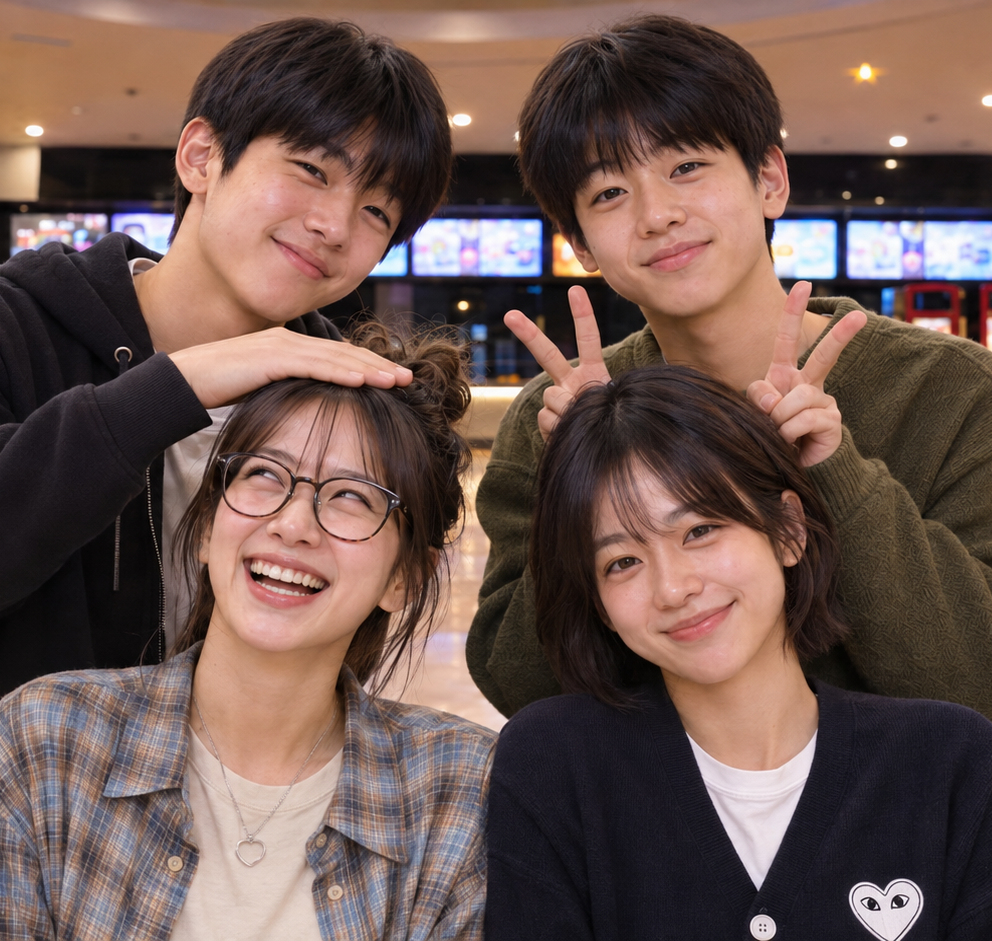
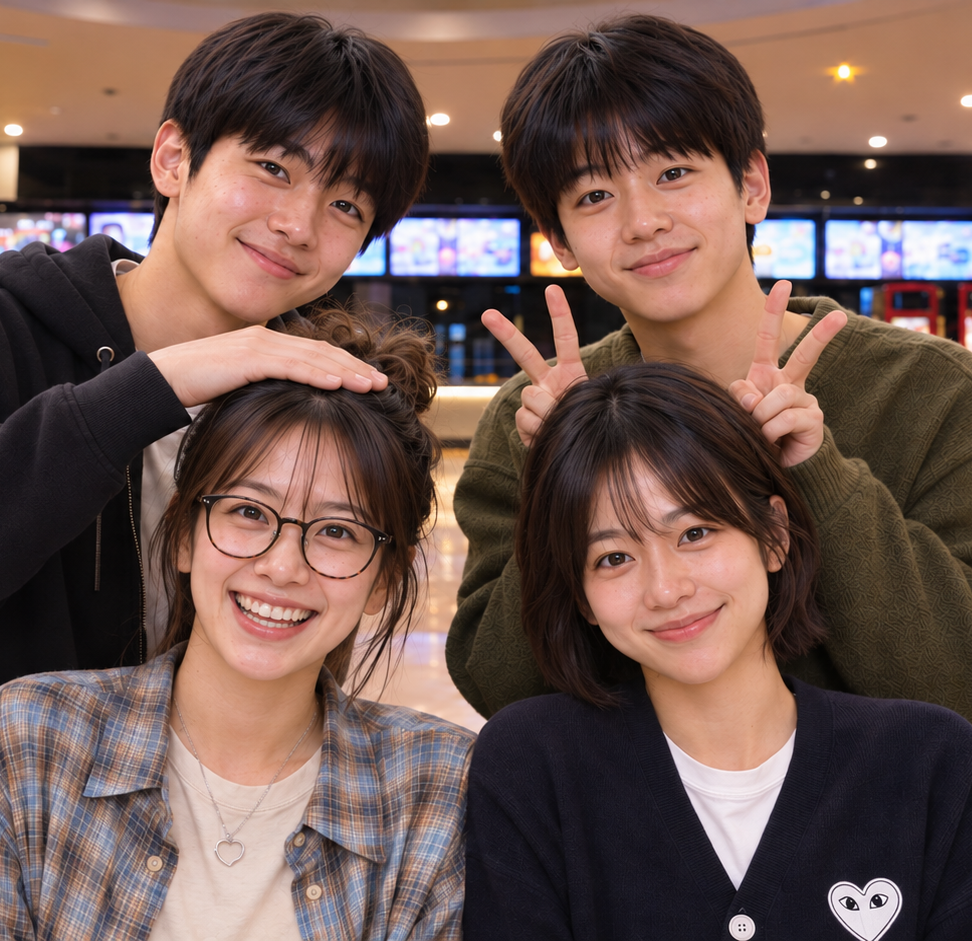
fix(샘플): 단체 샘플 사진을 «찰칵 포즈» 스틸로 — 웹 · 설치판 8종 (승인 Bumm 11/8)
넷이 카메라를 보는 새 스틸을 desktop-crop-probe가 브라우저로 자른 그림(972×941)을
무손실 WebP로 저장했다. 흐린 연장 0/8.

diff --git a/.claude/rules/app.md b/.claude/rules/app.md
@@ -349,7 +349,7 @@
   24fps 193프레임(8.04초), 로비 소리 · J컷 0.3 · 찰칵 7.45 · 멈춤 7.6, 숫자 4.8 · 5.6 · 6.4. 재료 · 목록은 `.cache/camera-video-20261108-group-stand/`.
   진짜 영상은 Bumm님이 만든다 — 명세는 저장소 밖 `ps-group-two-rows-1108/영상-명세-단체-모두서기.md`, 받으면 같은 순서(뒤처리 → 굽기 → 목록 → 탐침)로 바꾼다.
   🟠 단체 화면 문구: 칸 아래 안내와 안내 1번 제목은 «모두 잘 보이게 서주세요»(Bumm님 글자 그대로), 예시 이름표 «이렇게, 모두의 얼굴이 보이게». «앞줄은 앉고 뒷줄은 서서»는 화면 · 설명서 어디에도 쓰지 않는다. 혼자는 그대로다.
-- 🟠 **«샘플 포스터 보기»의 사진은 웹 · 설치판이 같다**(2026-11-08 Bumm님, 팀장 전달): 혼자는 2단계 예시 영상 끝 장면의 여학생(`public/studio/camera-v1/solo-end.webp` — 로비 · 청남방 · 브이), 단체는 새 단체 포즈 그림(단체 예시 영상 끝 장면과 같은 것).
+- 🟠 **«샘플 포스터 보기»의 사진은 웹 · 설치판이 같다**(2026-11-08 Bumm님, 팀장 전달): 혼자는 2단계 예시 영상 끝 장면의 여학생(`public/studio/camera-v1/solo-end.webp` — 로비 · 청남방 · 브이), 단체는 «찰칵 포즈» 스틸 12(11/8 밤 Bumm님 — 넷이 카메라를 봄. 지금 예시 영상 임시판의 끝 장면 08과는 다르고, 뒤 절반을 새로 만드는 예시 영상이 이 그림으로 끝난다).
   🟠 **샘플 사진은 그 모드의 예시 영상 끝 장면 사람이다** — 11/8 저녁에 혼자를 영상이 나오기 전 정지 그림(`camera-student.webp` — 미술실 · 남색 카디건)으로 했다가 «예시 영상 여학생과 다르다»(팀장)로 바꿨다.
   `camera-student.webp`는 예시 영상을 못 틀 때만 보이는 옛 정지 그림이다.
   설치판이 찍은 사진에 하는 «사람 둘레 세로 2:3 자르기»를 미리 한 그림(`src/studio/sample-solo.webp` · `sample-group.webp`, 무손실 WebP)을 `PosterStudio.tsx`가 정적으로 가져온다 —

diff --git a/_docs/intents/2026-11-08-group-stand-sample-photos/intent.md b/_docs/intents/2026-11-08-group-stand-sample-photos/intent.md
@@ -28,6 +28,8 @@ status: in-progress
   - 처음에는 혼자를 옛 정지 그림(`camera-student.webp` — 미술실 · 남색 카디건)으로 했다. 그런데 2단계에서 실제로 보이는 예시 영상의 여학생과 달라 같은 날 밤 바꿨다(팀장 지적).
   설치판이 찍은 사진에 하는 «사람 둘레 세로 2:3 자르기»(`src/desktopCrop.ts`)를 미리 한 그림을 `src/studio/sample-solo.webp` · `sample-group.webp`(무손실)로 두고 둘 다 그것을 쓴다.
   쓰지 않게 된 `src/studio/design-sample.webp`는 따로 커밋으로 지운다.
+  - 11/8 밤 Bumm님 «포스터 일단 저 위엣그림으로 다 샘플포스터는 넣어»: 단체는 새로 그린 «찰칵 포즈» 스틸(넷이 카메라를 봄 — 저장소 밖 `ps-group-two-rows-1108/12-…`)로 바꿨다.
+    지금 예시 영상 임시판의 끝 장면(08 장난 포즈)과는 다르다 — 뒤 절반을 새로 만드는 예시 영상이 이 그림으로 끝나면 다시 같아진다.
 - 설명서 00 · 01 · 02 · 03의 단체 문장도 «모두 잘 보이게 서주세요»로. 새판 폴더에 새 이름(1108e)으로 두고 납품 폴더는 팀장 신호 뒤.
 
 ## 영향받는 사용자·시스템

diff --git a/_docs/CHANGELOG.md b/_docs/CHANGELOG.md
@@ -1,5 +1,10 @@
 # CHANGELOG — Poster Studio
 
+## 2026-11-08(일) 밤 5 — 단체 샘플 사진을 «찰칵 포즈» 스틸로 (Bumm님 «포스터 일단 저 위엣그림으로 다 샘플포스터는 넣어», 팀장 전달)
+
+- `src/studio/sample-group.webp`: 넷이 카메라를 보는 새 스틸(저장소 밖 `ps-group-two-rows-1108/12-…`, 1672×941)을 `desktop-crop-probe.mjs`가 브라우저로 자른 그림(얼굴 4개 · 972×941)을 무손실 WebP로. 웹 · 설치판 «샘플 포스터 보기» 단체 8종이 이것을 쓴다.
+  흐린 연장 0/8. 2단계 단체 예시 영상 임시판의 끝 장면(08 장난 포즈)과는 잠시 다르다 — 뒤 절반을 새로 만드는 예시 영상이 이 그림으로 끝난다.
+
 ## 2026-11-08(일) 밤 4 — 포스터 사진 칸 덮어 채우기, 8종 모두 «시네마 · 트립틱처럼» (Bumm님, 팀장 전달)
 
 - Bumm님 «위에 지워지는 거 개짜증나는데 좌우 얼굴 옆쪽을 잘라서라도 최대한 채워. 모든 이미지들을 1번 시네마랑 8번 트립틱처럼».
